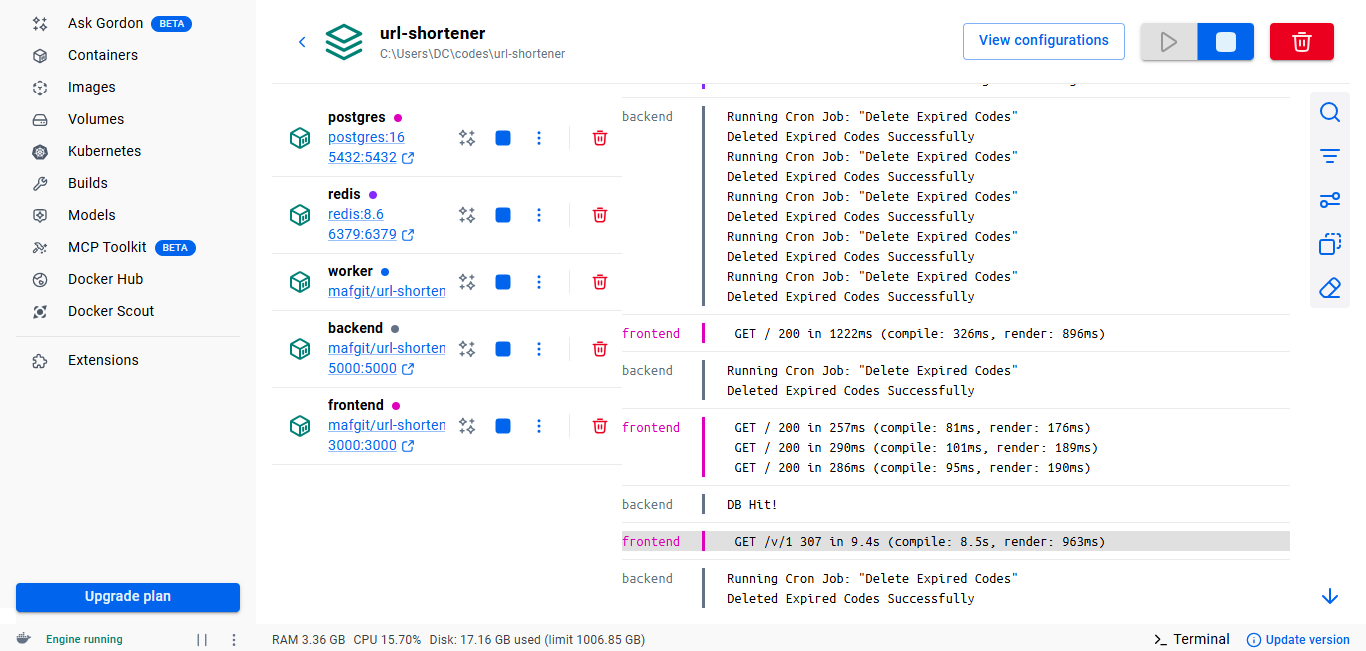
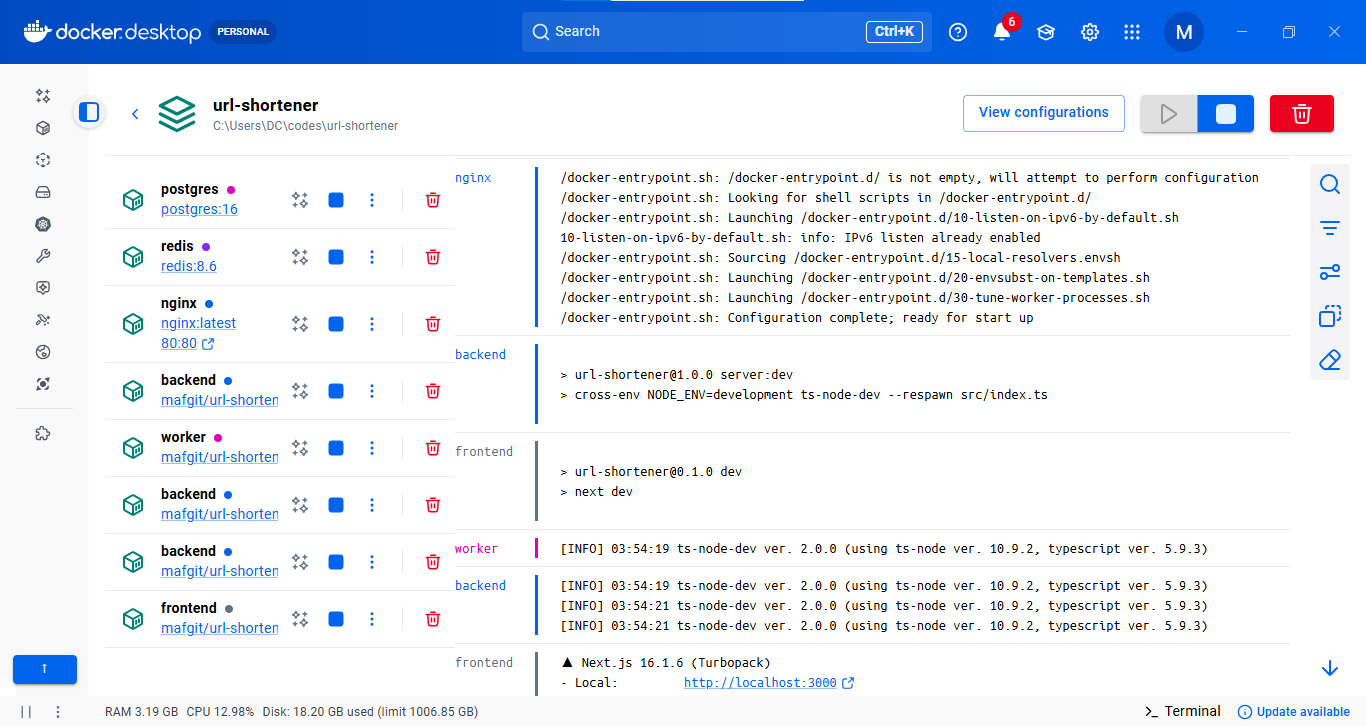
- added load balancing - fixed some stuff - edited readme how to run

diff --git a/backend/src/controllers.ts b/backend/src/controllers.ts
@@ -8,6 +8,8 @@ import { CODE_CACHE_EXPIRES_SEC } from "./constants";
 import { clickQueue } from "./queues";
 
 export async function shorten(req: Request, res: Response) {
+	console.log("Backend Instance:", process.env.HOSTNAME);
+
 	try {
 		const url: string = req.body["url"];
 		if (!isValidURL(url))
@@ -56,6 +58,8 @@ export async function shorten(req: Request, res: Response) {
 }
 
 export async function visit(req: Request, res: Response) {
+	console.log("Backend Instance:", process.env.HOSTNAME);
+
 	try {
 		const code = req.params.code as string;
 		// console.log(code);
@@ -115,10 +119,14 @@ export async function visit(req: Request, res: Response) {
 }
 
 export async function health(req: Request, res: Response) {
+	console.log("Backend Instance:", process.env.HOSTNAME);
+
 	res.json({ status: "ok" });
 }
 
 export async function checkClicks(req: Request, res: Response) {
+	console.log("Backend Instance:", process.env.HOSTNAME);
+
 	try {
 		// todo: check if ip is of owner
 		const { rows } = await db.query(

diff --git a/frontend/src/app/v/[code]/page.tsx b/frontend/src/app/v/[code]/page.tsx
@@ -26,18 +26,20 @@ export default async function Visit({ params }: Props) {
 			// console.log(url);
 			redirect(url);
 		} else if (res.status === 404 || res.status === 400) {
-			throw new Error("URL not found");
+			throw new Error("URL is either invalid or has expired");
 		} else if (res.status === 429) {
 			// alert("Rate limit exceeded. Please try again later.");
 			// redirect("/?error=rate_limit_exceeded");
 			throw new Error("Rate limit exceeded. Please try again later.");
 		} else {
+			console.error(res);
 			throw new Error("An unexpected error occurred");
 		}
 	} catch (e: unknown) {
-		console.log("asdasd", e);
 		// dont wanna catch this specific error otherwise redirect wouldnt take place, so rethrow it
 		if (e instanceof Error && e.message === "NEXT_REDIRECT") throw e;
+
+		console.error(e);
 
 		return (
 			<div className="text-center flex flex-col gap-2 min-h-screen items-center justify-center p-3">

diff --git a/README.md b/README.md
@@ -3,29 +3,29 @@
 > Basic URL shortener to learn Docker, Job-Queue System & some related system design concepts & tools.
 
 ## Table of Contents
-* [Tools and Concepts](#tools-and-concepts)
-* [Screenshots](#screenshots)
-* [How to Run](#how-to-run)
+
+- [Tools and Concepts](#tools-and-concepts)
+- [Screenshots](#screenshots)
+- [How to Run](#how-to-run)
 
 ## Tools and Concepts
 
 - Docker ✅
     - Learnt and made Dockerfiles and docker-compose.yml file with detailed comments on what I learnt
-- Rate Limiting ✅
+- Basic Rate Limiting ✅
     - Used Redis's INCR and EX operators for that in an Express middleware
 - BullMQ (Redis-Based Queue System) ✅
     - For queuing jobs so that a worker can pick it up and run it separately
     - So that response is sent to the user immediately, and then the database queries afterwards would handled by the worker instead of doing all that in the network request before sending response to user.
     - Alternative: setImmediate in Node.js but it isn't as effective as BullMQ, which can handle retries and queue and worker management, and other stuff.
+- Nginx ✅
+- Horizontal Scaling & Load Balancing ✅
 - Cron Job ✅
     - For scheduling deletion of expired short urls from PostgreSQL
-- Load Balancing
-- AWS
-- Nginx
-- Horizontal Scaling
 - Read Replica
 - Redis + PostgreSQL ✅
 - Next.js + Express.js ✅
+      <!-- - AWS -->
 
 ## Screenshots
 
@@ -34,9 +34,13 @@ Frontend:
 
 Docker:
 ![Docker](./readme-images/2.png)
+[DockerHub Profile](https://hub.docker.com/r/mafgit/)
 
 ## How to Run
-- # todo: ...
 
-You can find images here:
-[DockerHub Profile](https://hub.docker.com/r/mafgit/)
+1. Have Docker desktop installed
+1. Just download these files in a folder (or clone the whole repo if you want):
+    - docker-compose.yml
+    - nginx.conf
+    - schema.sql
+1. `docker compose up` in the terminal inside the folder
